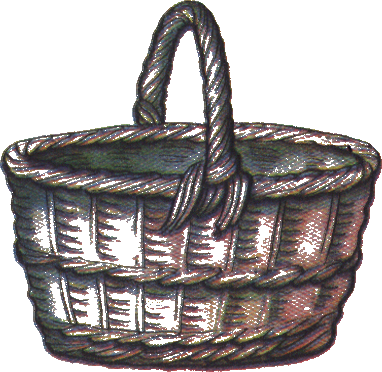
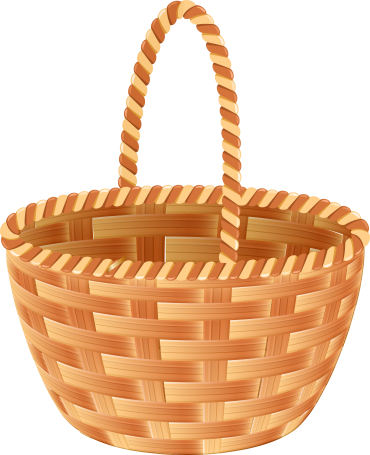
dependencies updates with SDK + new basket image + removed borders

diff --git a/screens/BasketScreen.js b/screens/BasketScreen.js
@@ -36,7 +36,7 @@ const BasketMushroom  = ( { mushroom, index, showMushroomInfo, name }) => {
 
 const BasketScreen = ({ navigation }) => {    
     const  mushroomsBasket = navigation.state.params.mushroomsBasket;
-    
+
     const zeroEdible = mushroomsBasket.findIndex((m) => m.edibility === edibilityConst.EDIBLE ) === -1 ? true : false;
     const  zeroPoisonous = mushroomsBasket.findIndex((m) => m.edibility === edibilityConst.POISONOUS ) === -1 ? true : false;
 
@@ -65,7 +65,7 @@ const BasketScreen = ({ navigation }) => {
             <View style={styles.containerMushrooms}>                           
                 <View style={styles.edibleMushrooms}>                     
                     <Text style={styles.mushroomsHeader}>Edible</Text>
-                    <View style={{ borderBottomColor: 'black', borderBottomWidth: 1, }}/>                     
+                    {/* <View style={{ borderBottomColor: 'white', borderBottomWidth: 1, }}/>                      */}
                     {zeroEdible ? (
                         <View style={styles.textWrapper}>
                             <Text style={styles.text}>No Edible Mushrooms. Try Again!</Text>
@@ -82,7 +82,7 @@ const BasketScreen = ({ navigation }) => {
                 </View>              
                 <View style={styles.poisonousMushrooms}>                    
                     <Text style={styles.mushroomsHeader}>Poisonous</Text>
-                    <View style={{ borderBottomColor: 'black', borderBottomWidth: 1, }}/>  
+                    {/* <View style={{ borderBottomColor: 'white', borderBottomWidth: 1, }}/>   */}
                     {zeroPoisonous ? (
                         <View style={styles.textWrapper}>
                             <Text style={styles.text}>No Poisonous Mushrooms!</Text>
@@ -101,18 +101,18 @@ const BasketScreen = ({ navigation }) => {
             </View> 
             <View style={styles.button}>
                 <Button
-                    title="Back" 
+                    title="back" 
                     onPress={() => navigation.navigate('StartGame')}
                     color={Colors.gameButton}                    
                 />
             </View>  
-            <Image
+            {/* <Image
                 source={basketImg}                         
                 pointerEvents={'none'}
                 style={styles.basketImg}
                 // style={StyleSheet.absoluteFillObject}
             />
-            
+             */}
         </View>
     );
 };
@@ -160,7 +160,7 @@ const styles = StyleSheet.create({
     },
     mushroomsHeader: {
         textAlign: 'center',
-        padding: '5%',
+        paddingTop: '8%',
         fontWeight: 'bold',
         textTransform: 'uppercase',
         color: Colors.white,
@@ -180,7 +180,10 @@ const styles = StyleSheet.create({
         // paddingTop: "2%",
         fontWeight: 'bold',
         textTransform: 'uppercase',
-        // color: Colors.black,              
+        // backgroundColor: Colors.black,
+        textShadowColor: 'rgba(0, 0, 0, 0.75)',
+        textShadowOffset: {width: -1, height: 1},
+        textShadowRadius: 10,          
         padding:'10%',    
     },
     textWrapper: {
@@ -210,7 +213,7 @@ const styles = StyleSheet.create({
         //resizeMode: 'contain',
         alignSelf: 'flex-end',        
         marginBottom: '-5%',
-        opacity: 0.7,
+        // opacity: 0.7,
         zIndex: 50,
         
     },   

diff --git a/screens/GameScreen.js b/screens/GameScreen.js
@@ -71,15 +71,12 @@ const GameScreen = ({ navigation }) => {
         return gesture.moveY > dz.y && gesture.moveY < dz.y + dz.height;
     }, []);
 
-    const updateMushrooms = () => {  
-        // console.log("pickedRef from updateMushrooms", pickedRef.current);     
+    const updateMushrooms = () => {          
         const updatedMushrooms = mushroomsRef.current.map((m) => (m.id === pickedRef.current) ? { ...m, status: statusConst.IN_BASKET } : m);      
 
-        setMushrooms(updatedMushrooms);
-        // console.log("OUR MUSHROOMS after basket", updatedMushrooms);
+        setMushrooms(updatedMushrooms);        
         setPicked('');           
-    }
-
+    };
 
     const onMove = useCallback((_, gesture) => {
         if (isDropZone(gesture)) setBgColor('red');
@@ -129,22 +126,20 @@ const styles = StyleSheet.create({
         display: 'flex',       
         flexDirection: 'row',
         justifyContent: 'center',
-       
-        // marginLeft: 100,
         height: height,
         width: width,        
     },
     containerMushrooms: {
         flexBasis: '85%',
         height: height,
-        borderColor: 'red',
-        borderWidth: 2,
+        // borderColor: 'red',
+        // borderWidth: 2,
         zIndex: 2,
     },
     containerBasket: {
         flexBasis: '15%',
-        borderColor: 'red',
-        borderWidth: 2,
+        // borderColor: 'red',
+        // borderWidth: 2,
         zIndex: 1,
     },
     

diff --git a/components/Mushrooms.js b/components/Mushrooms.js
@@ -84,8 +84,7 @@ const Mushroom = ( { mushroomId, isDropZone, onMove, setBgColor, updateMushrooms
     )
 };
 const Mushrooms = ( props ) => {
-    const { mushrooms, handleMushroomSelected } = props;
-    
+    const { mushrooms, handleMushroomSelected } = props;    
       
     return (
         <ImageBackground source={forest} style={styles.backgroundImage} >
@@ -119,8 +118,8 @@ const styles = StyleSheet.create({
     },
     mushroom: {
         alignItems:'center',        
-        borderWidth: 1,
-        borderColor: "black",
+        // borderWidth: 1,
+        // borderColor: "black",
         flexBasis: "33.33%",              
         height: "33.33%",
         justifyContent: 'center',
@@ -129,8 +128,8 @@ const styles = StyleSheet.create({
     },
     field: {
         alignItems: 'center',
-        borderColor: 'blue',
-        borderWidth: 5,
+        // borderColor: 'blue',
+        // borderWidth: 5,
         flex: 1,
         flexDirection: 'row',
         flexWrap: 'wrap',

diff --git a/components/Basket.js b/components/Basket.js
@@ -64,14 +64,14 @@ const Basket = (props) => {
 
 const styles = StyleSheet.create({
     basketImg: {
-        height: 50,
-        width: 50,
+        height: 60,
+        width: 60,
         resizeMode: "contain",
     },
     basket: {
         flex:1,    
         justifyContent: 'space-between',
-        padding: 25,
+        padding: 30,
         alignItems:'center',
         backgroundColor: Colors.backGround,
         zIndex: 1,       
